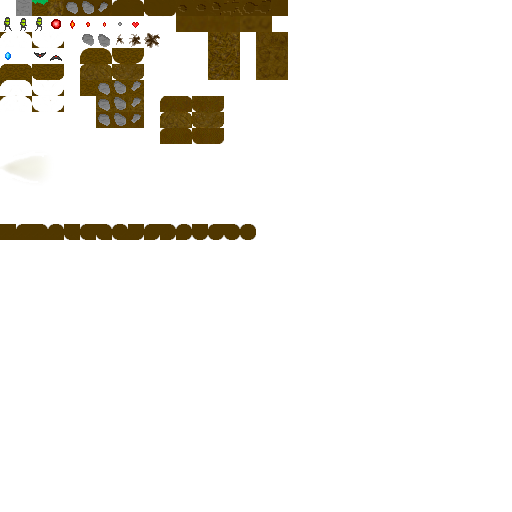
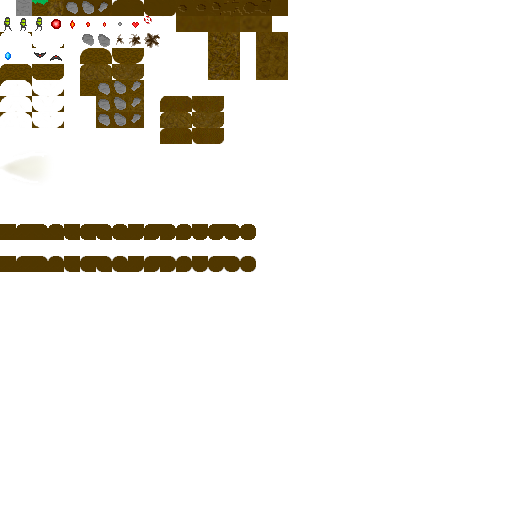
Changed corner textures, tweaked cornering code, added rapid fire, added mouse grab of window, added aiming reticle

Changed region(s): [[0.0, 0.5, 0.5, 0.5312], [0.2812, 0.0312, 0.3125, 0.0625]]

diff --git a/src/net/fybertech/ld29/LD29.java b/src/net/fybertech/ld29/LD29.java
@@ -65,6 +65,16 @@ public class LD29
 	public static boolean debugMode = false; 
 	public static boolean noClipping = false;
 	
+	
+	public boolean leftMouseDown = false;
+	public boolean rightMouseDown = false;
+	public int leftMouseDuration = 0;
+	public int rightMouseDuration = 0;
+	
+	
+	public boolean isScreenGrabbed = false;
+	
+	
 	/**
 	 * 
 	 * @return
@@ -197,7 +207,6 @@ public class LD29
 				newentities.clear();
 				
 				
-				if (Keyboard.isKeyDown(Keyboard.KEY_ESCAPE)) gameRunning = false; 
 			}
 			
 			secondTickTime += deltaTime;
@@ -282,15 +291,22 @@ public class LD29
 				
 				if (Keyboard.getEventKey() == Keyboard.KEY_ADD) this.userScale *= 2.0f;
 				if (Keyboard.getEventKey() == Keyboard.KEY_SUBTRACT) this.userScale /= 2.0f; 
-
 				
-			}
-			else
-			{
+				if (Keyboard.getEventKey() == Keyboard.KEY_ESCAPE) 
+				{
+					if (isScreenGrabbed)
+					{
+						isScreenGrabbed = false;
+						Mouse.setGrabbed(false);
+					}
+					else this.gameRunning = false;
+				}
+
 				if (Keyboard.getEventKey() == Keyboard.KEY_BACK) debugMode = !debugMode;
 				if (Keyboard.getEventKey() == Keyboard.KEY_N) noClipping = !noClipping;
 				
 			}
+			
 		}
 		
 		//if (Keyboard.getEventKey() == Keyboard.KEY_SPACE)
@@ -341,17 +357,48 @@ public class LD29
 		
 		// Handle mouse
 		
-		while (Mouse.next())
-		{
-			if (Mouse.getEventButton() == 0 && Mouse.getEventButtonState())
+		if (Mouse.isButtonDown(0))
+		{			
+			if (!isScreenGrabbed)
 			{
-				int mx = Mouse.getEventX();
-				int my = Mouse.getEventY();
+				isScreenGrabbed = true;
+				Mouse.setGrabbed(true);
+			}
+			
+			
+			boolean fireShot = false;
+			boolean firstShot = false;
+			int shootDelay = 150;
+					
+			if (leftMouseDown)
+			{
+				leftMouseDuration += deltaTime;
+				
+				if (leftMouseDuration >= shootDelay)
+				{
+					leftMouseDuration -= shootDelay;
+					fireShot = true;
+				}			
+			}
+			else
+			{
+				leftMouseDuration = 0;
+				leftMouseDown = true;
+				fireShot = true;
+				firstShot = true;
+			}
+			
+			if (fireShot)
+			{
+				int mx = Mouse.getX();
+				int my = Mouse.getY();
 				my = Display.getHeight() - my -  1;
 				
 				int dx = (Display.getWidth() / 2) - mx;
 				int dy = (Display.getHeight() / 2) - my;
 				double angle = Math.atan2(-dy, -dx) * 180 / Math.PI;
+				
+				if (!firstShot) angle += ((Math.random() * 4) - 2);
 				
 				//System.out.println("CLICK " + mx + " " + my + " " + angle);
 				
@@ -366,7 +413,10 @@ public class LD29
 				newentities.add(new EntityBullet(player.xPos, player.yPos, xv, yv));
 				LD29.soundShoot.playAsSoundEffect((float)(Math.random() * 0.05) + 1f,  0.55f,  false);
 			}
+			
 		}
+		else leftMouseDown = false;
+	
 		
 		int mx = Mouse.getX();
 		int my = Mouse.getY();
@@ -511,6 +561,17 @@ public class LD29
 		
 		GL11.glLoadIdentity();
 		font.drawString(displayScale * 4,displayScale * 15,"Gems: " + gemTotal, Color.white);
+		
+		if (isScreenGrabbed)
+		{
+			textureAtlas.bind();
+			GL11.glLoadIdentity();
+			GL11.glScalef(((float)displayScale / 1.0f), ((float) displayScale / 1.0f), 1);
+			GL11.glColor3f(1,1,1);
+			GL11.glBegin(GL11.GL_QUADS);
+			renderTileQuad((Mouse.getX() / displayScale) - 3, ((Display.getHeight() - Mouse.getY()) / displayScale) - 3, 41);		
+			GL11.glEnd();
+		}
 	}
 	
 	

diff --git a/src/net/fybertech/ld29/GridChunk.java b/src/net/fybertech/ld29/GridChunk.java
@@ -190,14 +190,14 @@ public class GridChunk
 			//if (!isLeft && !isDown) { setTileDirect(x, y, 9); } //setData(x - 1, y, 0); setData(x, y + 1, 0); }
 			//if (!isRight && !isDown) { setTileDirect(x, y, 10); } // setData(x + 1, y, 0); setData(x, y + 1, 0); }		
 			
-			if (!isLeft && !isUp && !isUpLeft) data |= 1;
-			if (!isRight && !isUp && !isUpRight) data |= 2;
+			if (!isLeft && !isUp && !isUpLeft && isDown) data |= 1;
+			if (!isRight && !isUp && !isUpRight && isDown) data |= 2;
 			if (!isLeft && !isDown && !isDownLeft) data |= 4;
 			if (!isRight && !isDown && !isDownRight) data |= 8;
 			
 			//return; 
 		}
-		else if (thisTile == 0)
+		else if (thisTile == 0 || thisTile == 96)
 		{			
 			if (isLeft && isUp) data |= 1;
 			if (isRight && isUp) data |= 2;
@@ -265,14 +265,20 @@ public class GridChunk
 				// Render rounded corners
 				
 				int cornerbase = (14 * 32);
-				if (tilenum == 0)
+				
+				// Draw outer rounded edges for empty spaces and gems
+				if (tilenum == 0 || tilenum == 96)
 				{
+					// If it's a gem, put it here too
+					if (tilenum == 96) renderMultiTileQuad(x, y, tilenum, cornerbase + (tiledata & 0xF));
+					
 					// Render outer rounded edges in empty block spaces
 					if ((tiledata & 1) > 0) renderMultiTileQuad(x, y, 64, cornerbase);
 					if ((tiledata & 2) > 0) renderMultiTileQuad(x, y, 65, cornerbase);
 					if ((tiledata & 4) > 0) renderMultiTileQuad(x, y, 66, cornerbase);
 					if ((tiledata & 8) > 0) renderMultiTileQuad(x, y, 67, cornerbase);
 				}
+				// else draw regular tile
 				else
 				{					
 					renderMultiTileQuad(x, y, tilenum, cornerbase + (tiledata & 0xF));
